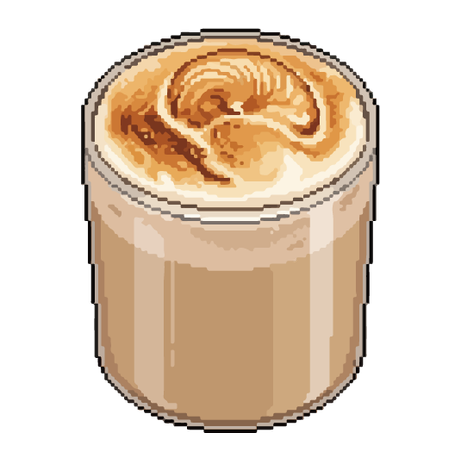
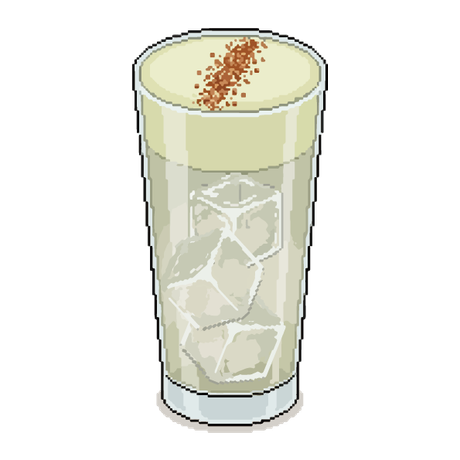
Fix 3 swapped cocktail photos; South Side no freeze; Dry Martini slow not push
- Rotate photos: banana <- kiwicolada, kiwicolada <- corn, corn <- banana
  (they were mislabeled)
- South Side: remove the freeze from the blue-flame zones (kept continuous
  damage) — it was too strong
- Dry Martini: remove the knockback (too OP); instead enemies within its orbit
  range are slowed (32% speed), bosses included

diff --git a/index.html b/index.html
@@ -2706,15 +2706,13 @@ function updateGinTonic(){
   } }
   for(let k=enemies.length-1;k>=0;k--){ if(enemies[k].hp<=0) killEnemy(k); }
 }
-/* 드라이 마티니: 플레이어 근처(궤도 안쪽)에 온 적을 살짝 바깥으로 밀어냄. 보스는 거의 안 밀림. */
-function drymartiniPush(){
+/* 드라이 마티니: 밀어내기 제거(너무 강했음) → 궤도 사정거리 안에 든 적을 느리게(속도 32%). 보스에도 적용. */
+function drymartiniSlow(){
   if(!player||!player.weapons||!player.weapons.drymartini) return;
-  const lv=player.weapons.drymartini, R=(46+lv*8)+16;   // 궤도 반경 + 약간
+  const lv=player.weapons.drymartini, R=(46+lv*8)+16;   // 궤도 사정거리
   for(const e of enemies){
-    const dx=e.x-player.x, dy=e.y-player.y, d=Math.hypot(dx,dy)||1;
-    if(d < R+e.r){
-      const push=(e.type==='boss')?0.25:2.2;             // 보스는 거의 안 밀림
-      e.x+=dx/d*push; e.y+=dy/d*push;
+    if(Math.hypot(e.x-player.x, e.y-player.y) < R+e.r){
+      e.frozenUntil=Math.max(e.frozenUntil||0, frame+18);   // 사정거리 안이면 슬로우(매 프레임 갱신)
     }
   }
 }
@@ -2958,7 +2956,7 @@ function update(){
   updateOrbits();   // 크랜베리 궤도무기
   updateAuras();    // 버무스 웜우드 오라
   updateGinTonic(); // 마늘(진토닉): 플레이어 뒤 반투명 진토닉 히트박스
-  drymartiniPush(); // 드라이 마티니: 플레이어 근처 적 살짝 밀어냄(보스는 거의 안 밀림)
+  drymartiniSlow(); // 드라이 마티니: 사정거리 안 적을 느리게(속도 32%)
   // ★사우스사이드 민트 레인: 예약된 폭탄을 한발씩(시간차) 하늘에서 떨어뜨림 → 착지 지점은 플레이어 주위 랜덤
   for(let i=mintRain.length-1;i>=0;i--){ const m=mintRain[i]; if(frame<m.at) continue;
     // 원형화: circ 확률로 플레이어 주변 '원'(baseAng+흔들림, 바깥쪽)에, 아니면 완전 랜덤. → 정확한 원 아님
@@ -3123,8 +3121,8 @@ function update(){
     if(p.land!=null){
       if(p.y>=p.land || p.life<=0){ const lx=p.x, ly=Math.min(p.land,p.y);
         if(p.sbFlame){
-          // ★파란 불꽃 장판: 지속 데미지 + 빙결(z.slow). 폭발 아님(계속 타오름).
-          zones.push({ x:lx, y:ly, r:p.landR, life:160, dmg:p.dmg*0.6, tick:14, slow:(p.cFreeze||60), kind:'sbflame' });
+          // ★파란 불꽃 장판: 지속 데미지만(빙결 제거 — 너무 강했음). 폭발 아님(계속 타오름).
+          zones.push({ x:lx, y:ly, r:p.landR, life:160, dmg:p.dmg*0.6, tick:14, slow:0, kind:'sbflame' });
           explosions.push({ x:lx, y:ly, r:p.landR, life:16, max:16, col:'#5fc9e6', ring:'#bfefff', flash:true });
           burst(lx,ly,'#7fd8ff',12);
         } else {